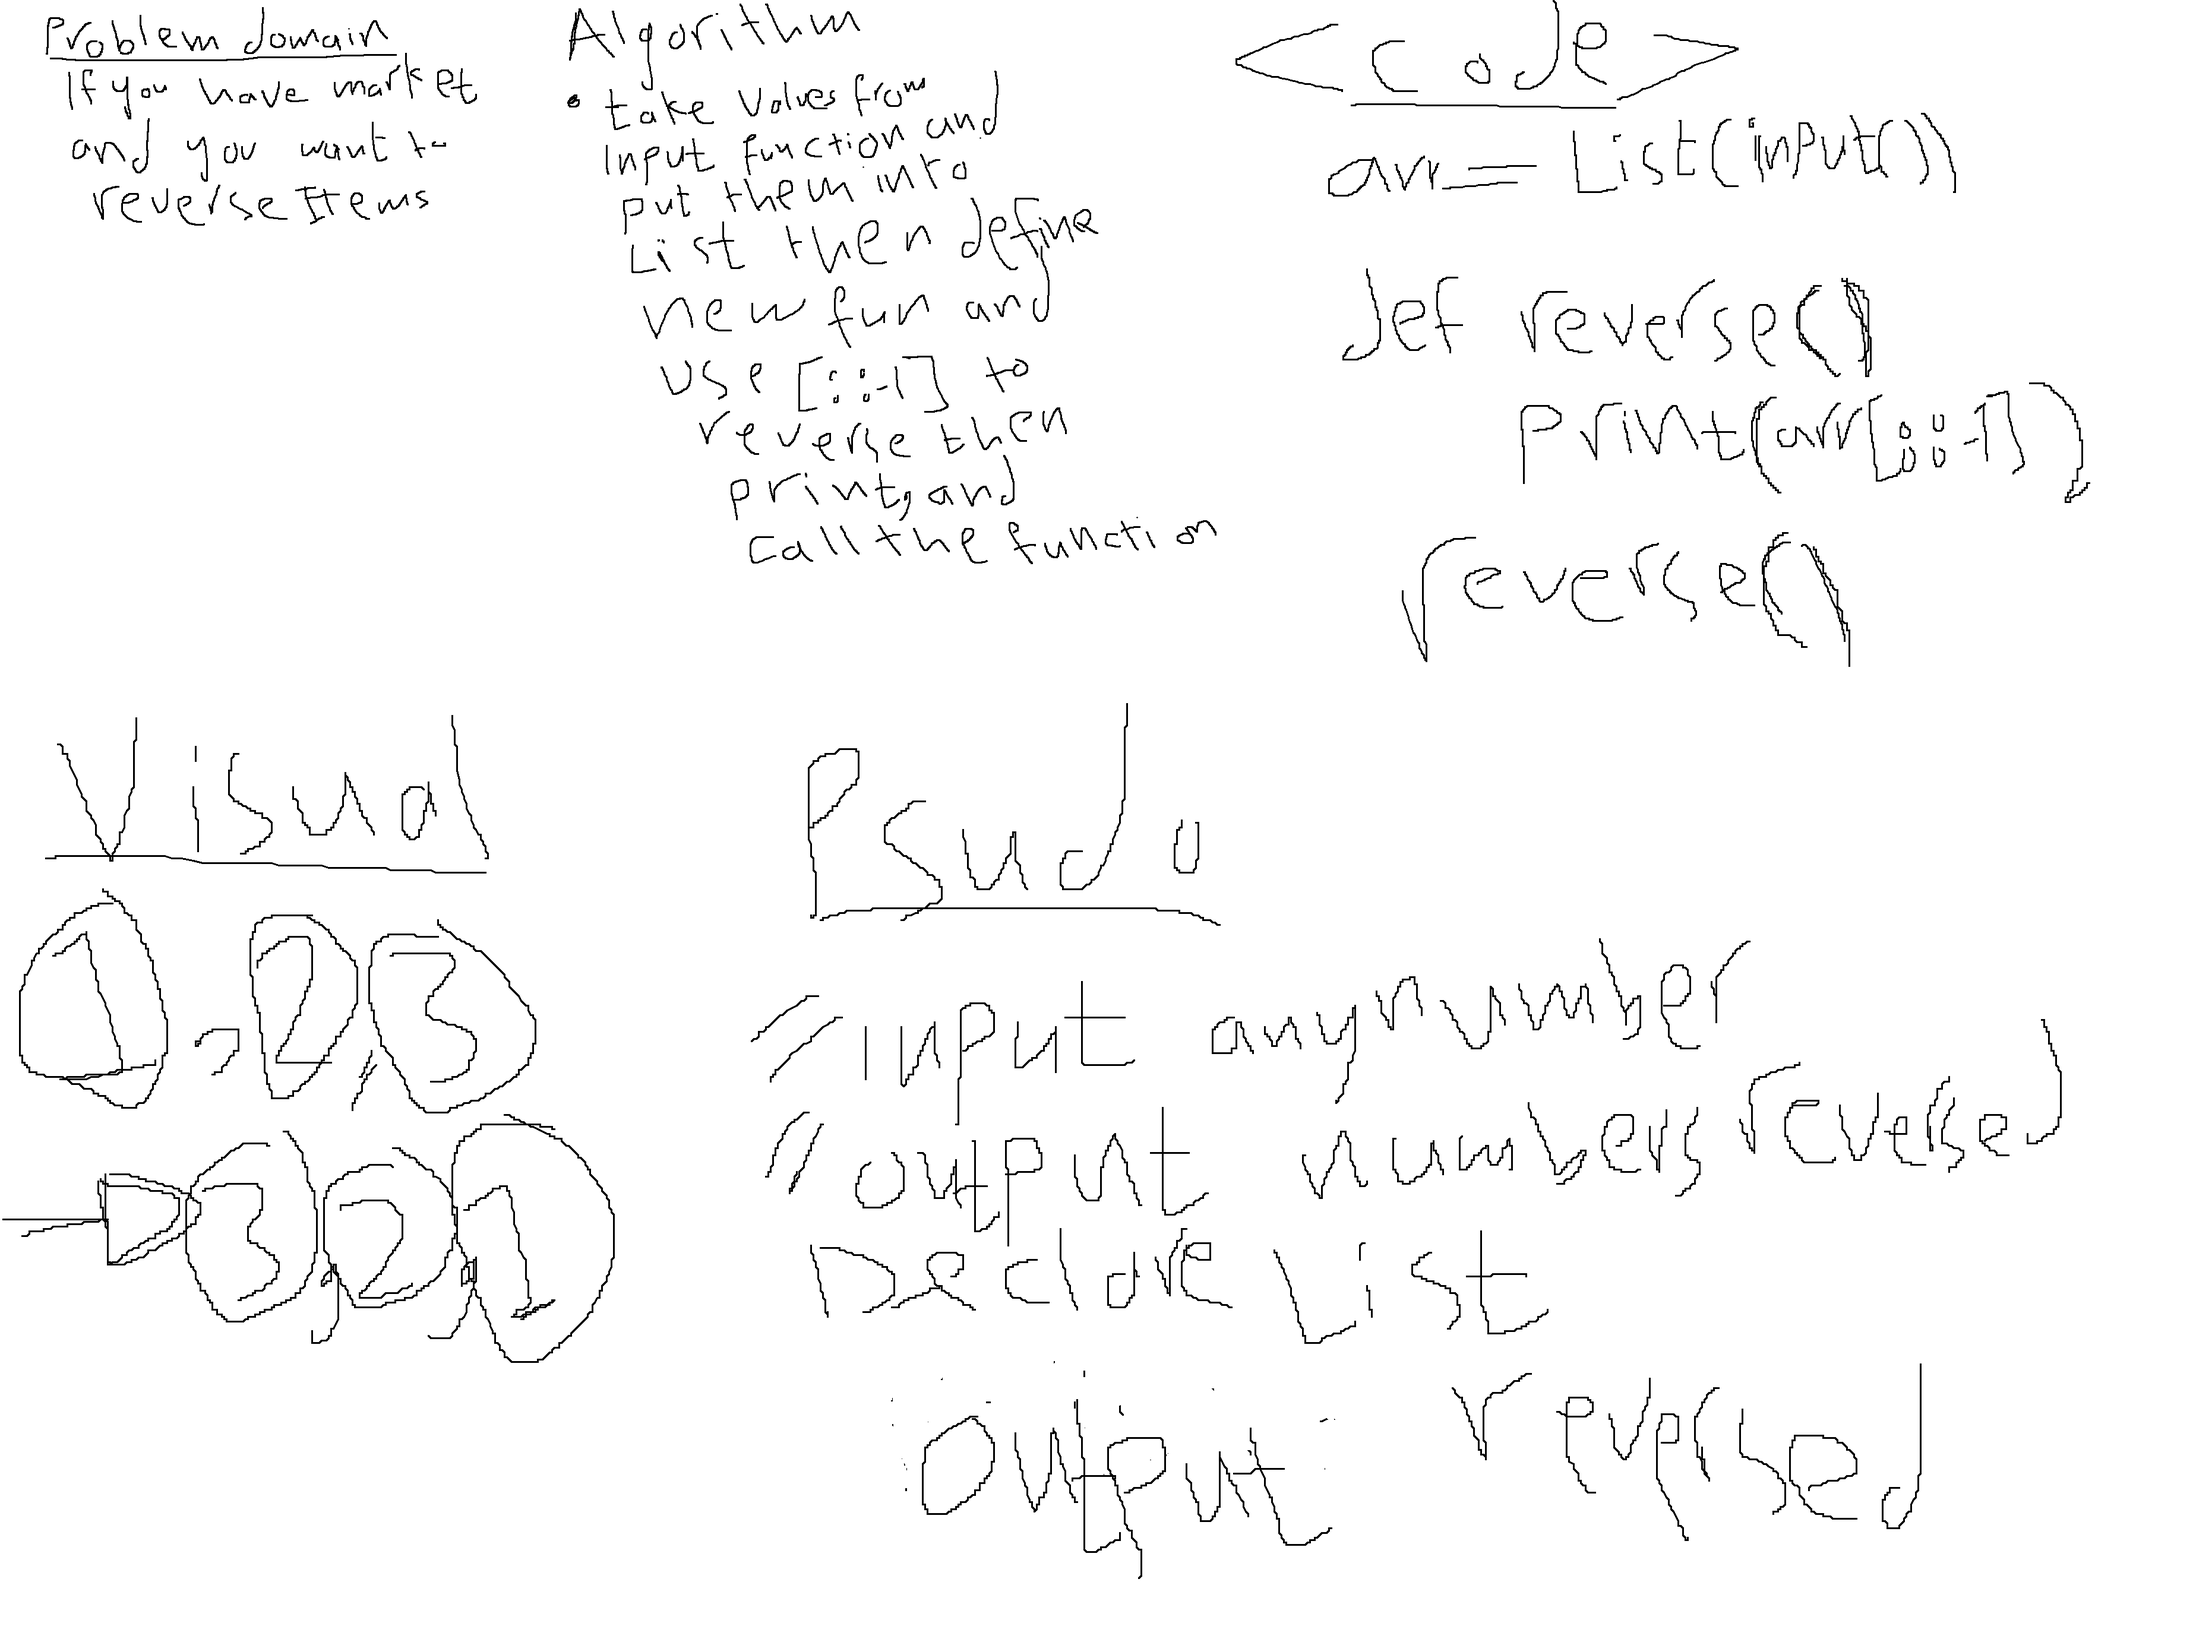
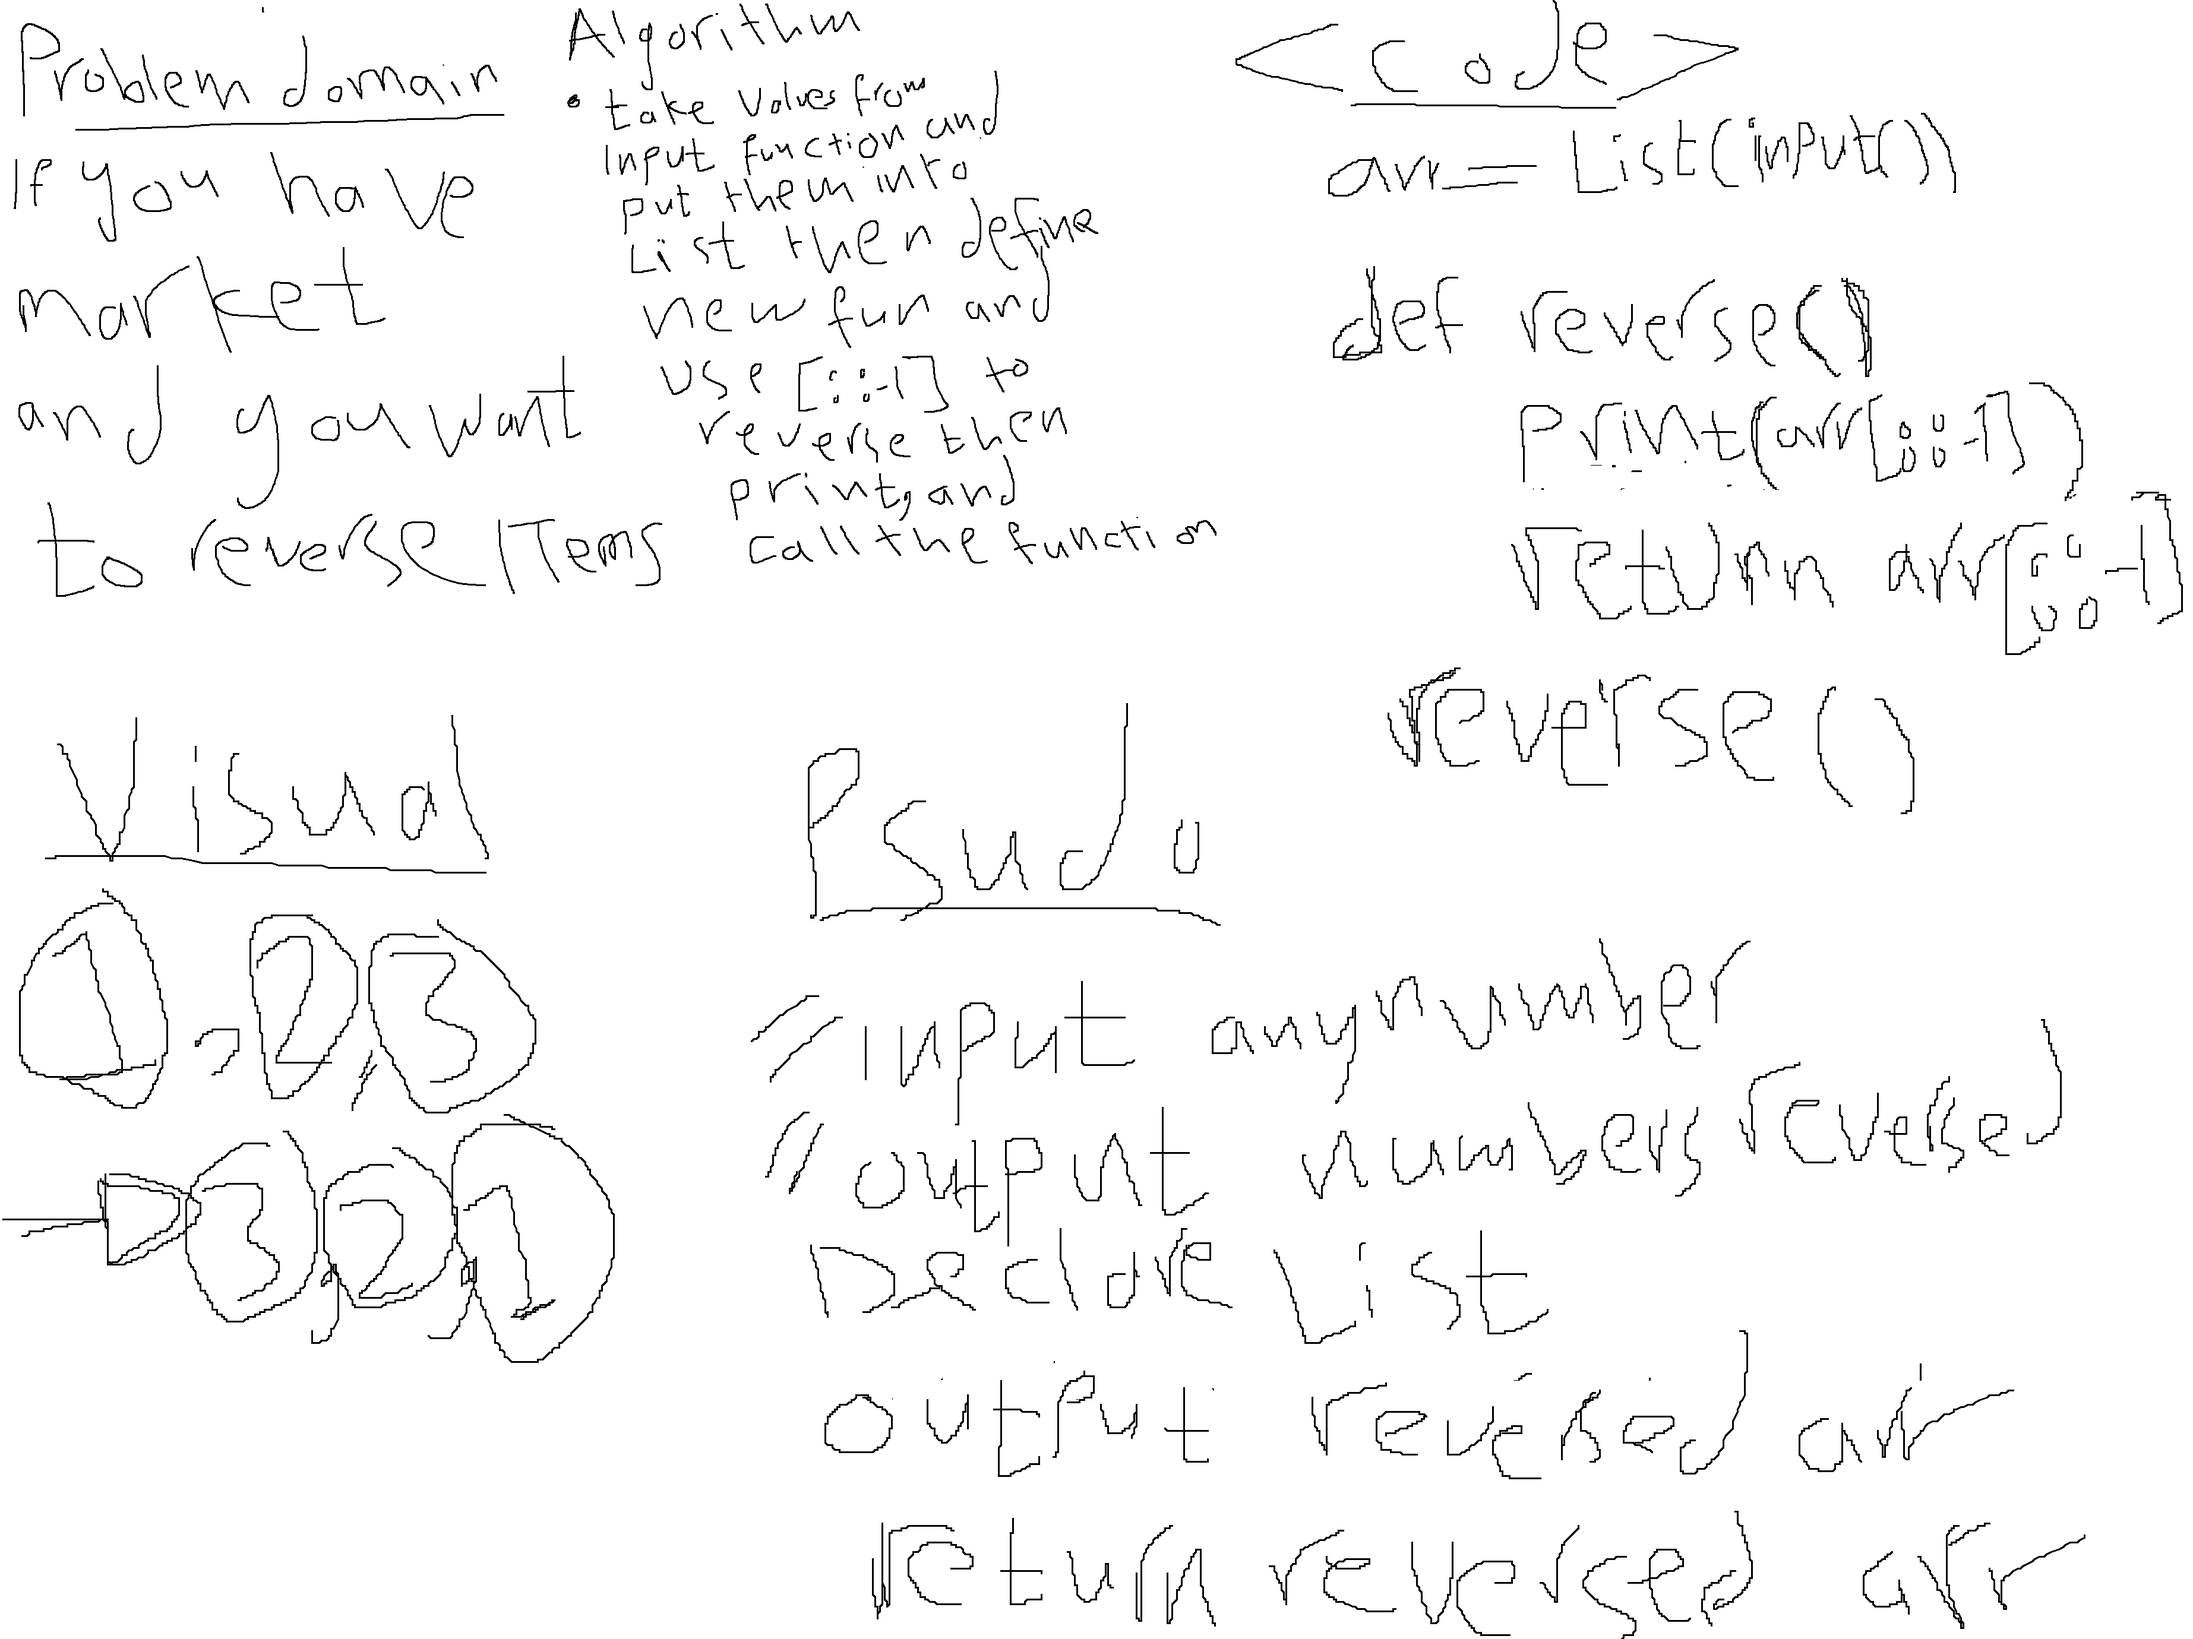
edited whiteboard

diff --git a/python/code_challenges/array-reverse/array-reverse.py b/python/code_challenges/array-reverse/array-reverse.py
@@ -5,7 +5,9 @@ def reverse():
     """
     This function is to reverse any elements
     """
+
     print(arr1[::-1])
+    return arr1[::-1]
 
 
 if __name__=="__main__":
